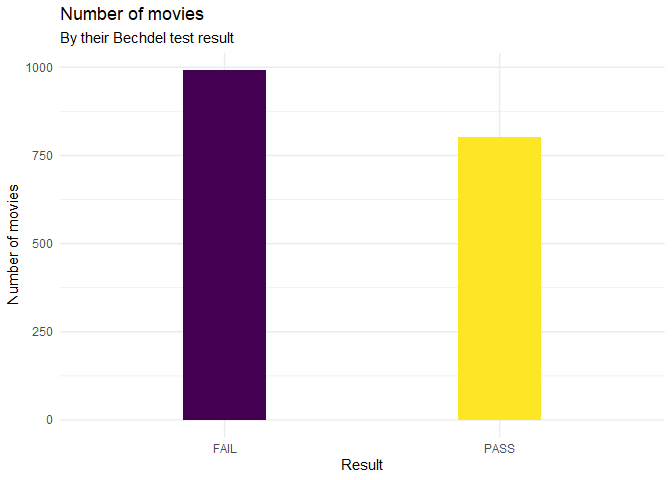
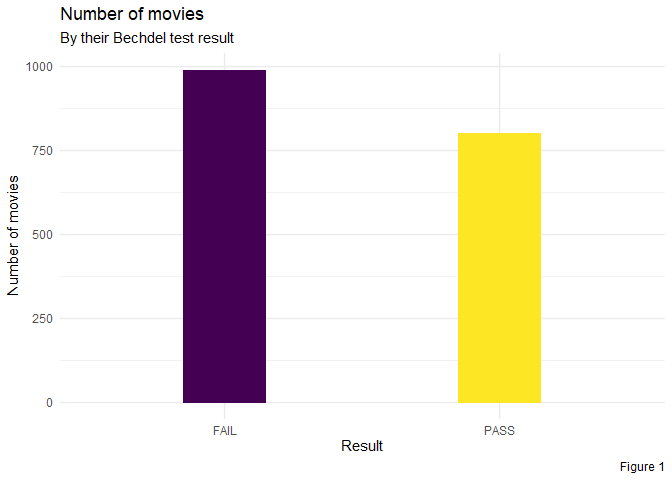
Changes to resolution and figure width. Added a caption for Fig 1. Closes #1

diff --git a/Bechdel-Test.md b/Bechdel-Test.md
@@ -45,6 +45,9 @@ clean_movies$bracket <- factor(clean_movies$bracket, levels = bracket_levels)
 
 ![](Bechdel-Test_files/figure-gfm/pass_and_fail-1.png)<!-- -->
 
+Figure 1 shows how there are more movies which fail the Bechdel test. In
+fact, there are 991 movies that fail the test, and 803 which pass it.
+
 ![](Bechdel-Test_files/figure-gfm/passes_fails_per_year-1.png)<!-- -->
 
 ![](Bechdel-Test_files/figure-gfm/lower_bracket-1.png)<!-- -->
